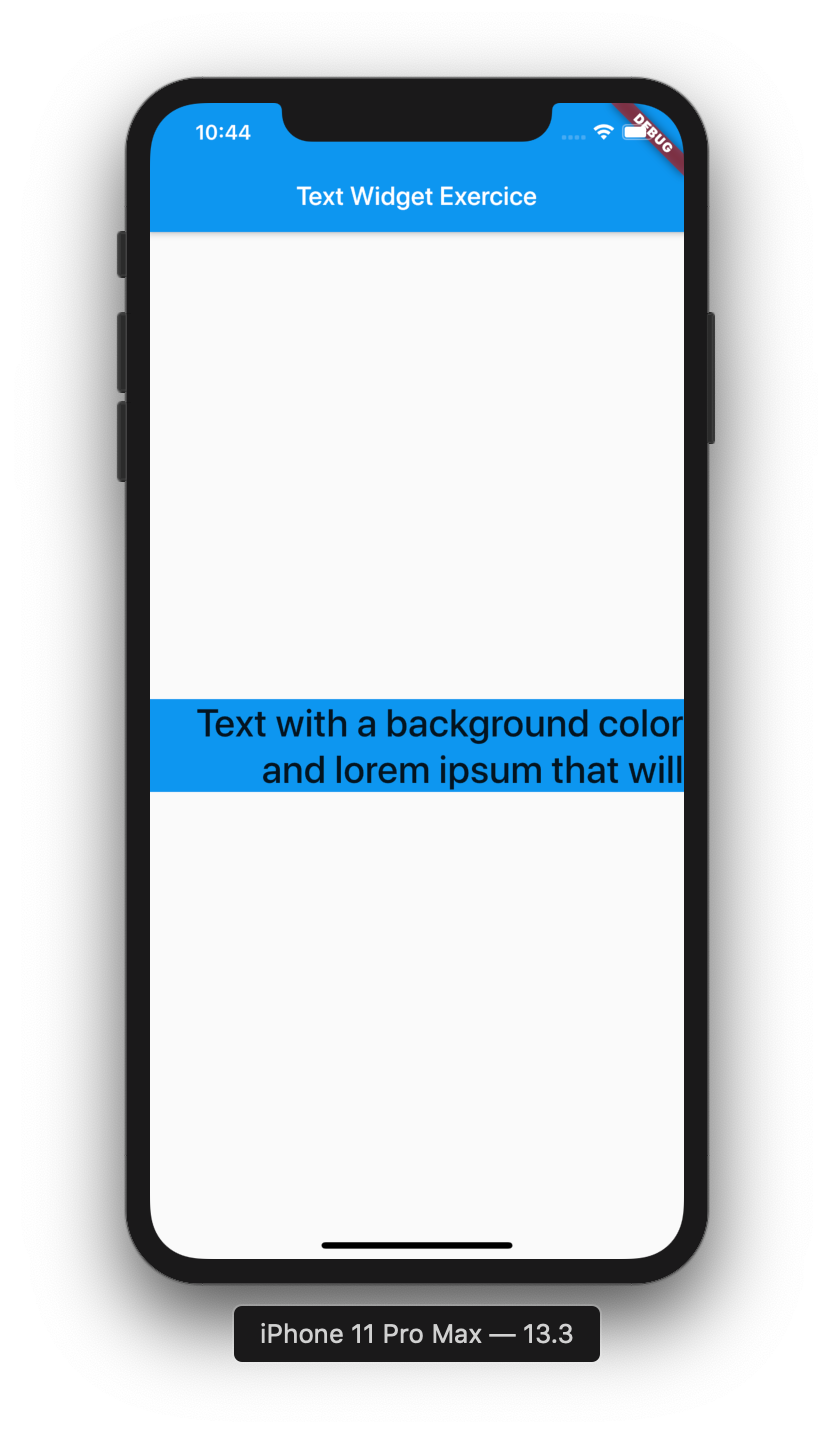
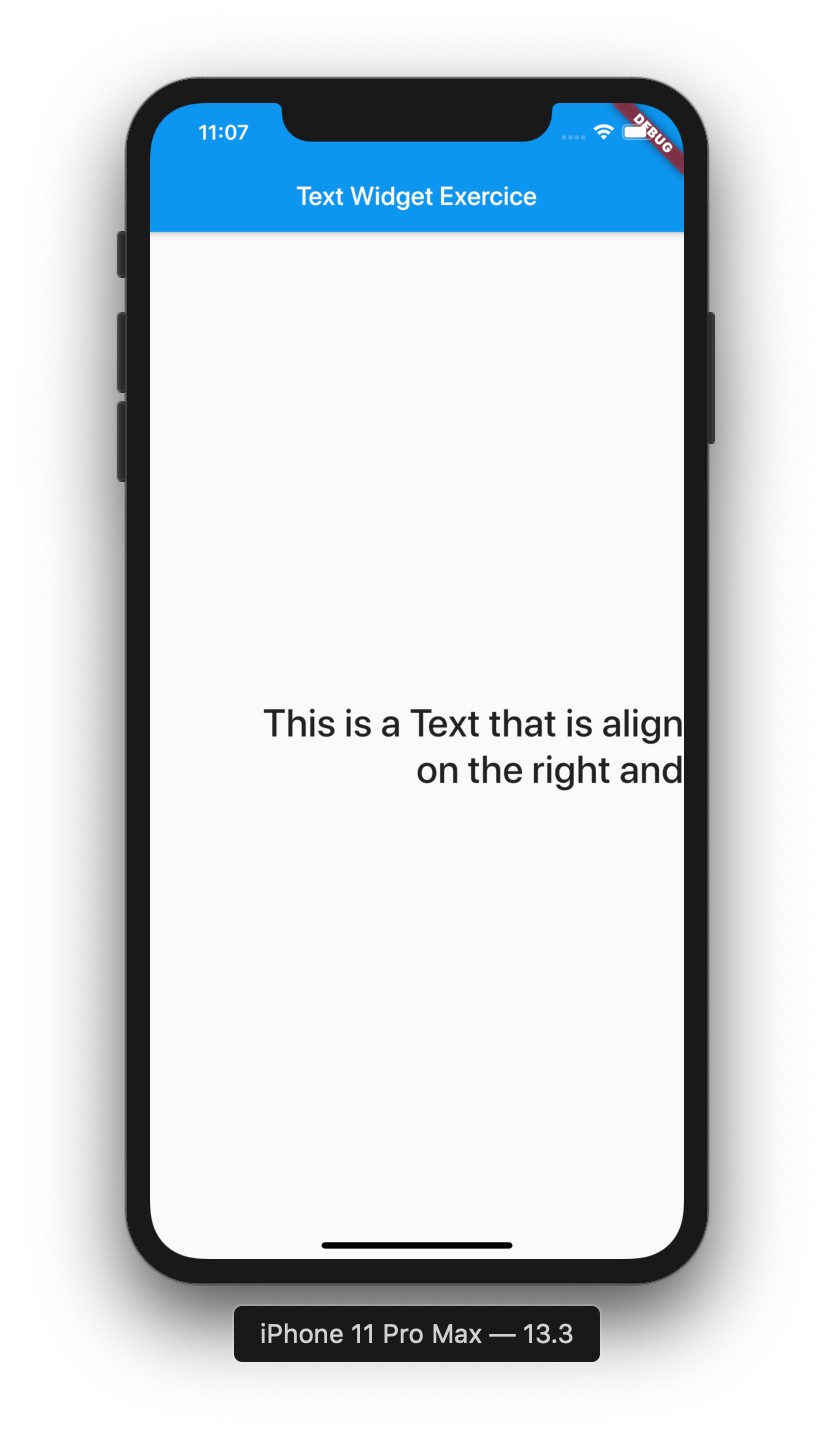
Text Widgets

Changed region(s): [[0.1559, 0.4603, 0.8417, 0.5523], [0.2494, 0.0614, 0.2806, 0.1227]]

diff --git a/README.md b/README.md
@@ -15,12 +15,15 @@
 [Text Class](https://api.flutter.dev/flutter/widgets/Text-class.html) Display and style text.
 
 ```dart
-Text(
-  'Hello, $_name! How are you?',
-  textAlign: TextAlign.center,
-  overflow: TextOverflow.ellipsis,
-  style: TextStyle(fontWeight: FontWeight.bold),
-)
+Text("""
+  Text with a background color  and lorem ipsum 
+  that will display what it can in a maximum number 
+  of 2 lines.""",
+    textAlign: TextAlign.right,
+    style: Theme.of(context).textTheme.title,
+    textScaleFactor: 1.5,
+    maxLines: 2
+  )
  ```
 ![screenshot of app](screenshots/text_widgets/text_class.png)
 
